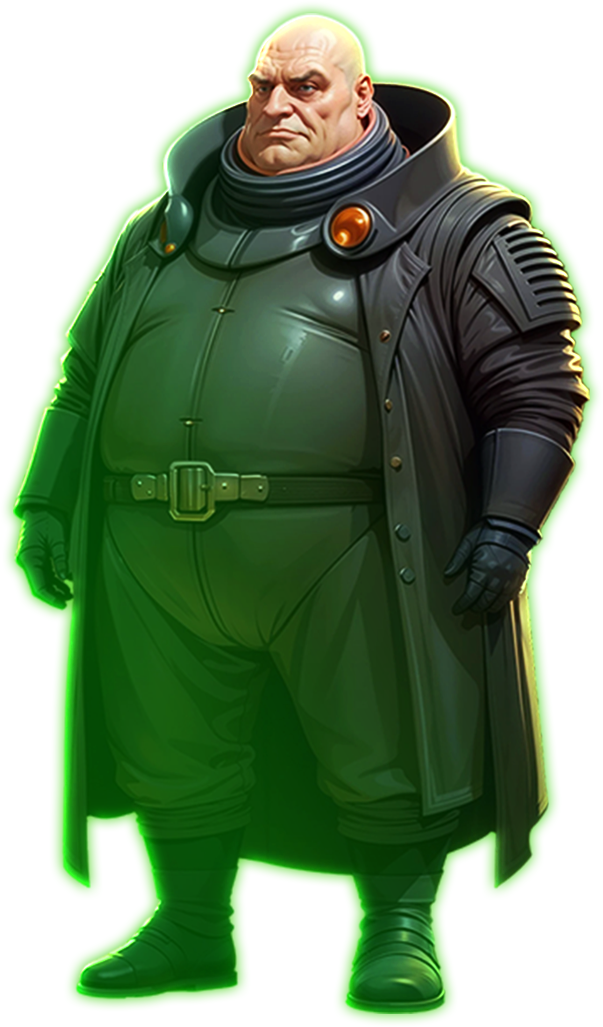
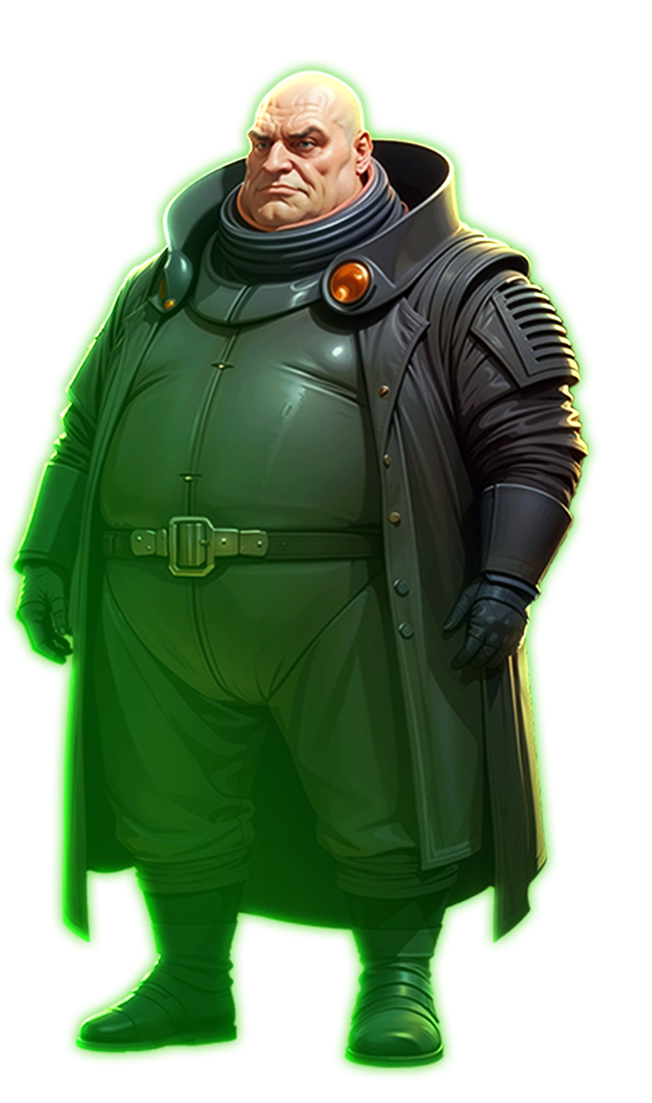
updated image sizes

diff --git a/src/App.jsx b/src/App.jsx
@@ -9,17 +9,24 @@ import chani from "./assets/img/chani.png";
 import baron from "./assets/img/baron.png";
 
 const images = [
-  { src: paul, alt: "Character Paul", className: "character-slider--image" },
-  { src: chani, alt: "Spaceship", className: "character-slider--image" },
-  { src: baron, alt: "Logo Character", className: "character-slider--image" },
+  { src: paul, alt: "Character Paul", className: "character-slider-image" },
+  { src: chani, alt: "Character Chani", className: "character-slider-image" },
+  { src: baron, alt: "Character Baron", className: "character-slider-image" },
 ];
 
 export default function App() {
   const [currentCharacter, setCurrentCharacter] = useState(0);
 
   useEffect(() => {
-    const interval = setInterval(() => {
-      setCurrentCharacter((prevIndex) => (prevIndex + 1) % images.length);
+    const interval = setInterval(function () {
+      setCurrentCharacter(function (prevIndex) {
+        const nextIndex = prevIndex + 1;
+        if (nextIndex === images.length) {
+          return 0;
+        } else {
+          return nextIndex;
+        }
+      });
     }, 3000);
 
     return () => clearInterval(interval);
@@ -31,21 +38,16 @@ export default function App() {
     <div id="app" className="app-wrapper">
       <div className="sand-texture"></div>
       <div className="header">
-        <div className="header--content">
+        <div className="header-content">
+          <h1 className="header-heading heading">SPIN FOR SPICE & <br></br>RULE THE DESERT!</h1>
           <div className="header-spaceship">
-            <img
-              src={spaceship}
-              alt="Spice Riches Spaceship"
-              className="header-spaceship-img"
-            />
+            <img src={spaceship} alt="Spice Riches Spaceship" className="header-spaceship-img" />
           </div>
-          <h1 className="header--heading heading">SPIN FOR SPICE</h1>
-          <h1 className="header--heading heading">RULE THE DESERT</h1>
         </div>
       </div>
       <div className="character-slider">
         <div className="character-slider-content">
-          <div className="character-slider--item">
+          <div className="character-slider-item">
             <img
               src={currentImage.src}
               alt={currentImage.alt}
@@ -56,10 +58,10 @@ export default function App() {
       </div>
       <div className="footer">
         <div className="footer-content">
-          <div className="footer--logo">
-            <img src={logo} alt="Spice Riches Logo" className="footer--logo-image" />
+          <div className="footer-logo">
+            <img src={logo} alt="Spice Riches Logo" className="footer-logo-image" />
           </div>
-          <h1 className="footer--heading heading">
+          <h1 className="footer-heading heading">
             COMING SOON
             <span>
               {" "}
@@ -68,7 +70,7 @@ export default function App() {
               <span className="footer-countdown">25</span>
             </span>
           </h1>
-          <p className="footer--body-text body-text">
+          <p className="footer-body-text body-text">
             Lorem ipsum dolor sit amet, consectetur adipiscing elit, sed do
             eiusmod tempor incididunt ut labore et dolore magna aliqua. Quis
             ipsum suspendisse ultrices gravida. Risus commodo viverra maecenas

diff --git a/src/styles/layout/_header.scss b/src/styles/layout/_header.scss
@@ -1,35 +1,33 @@
 @use "../base/colors" as colors;
 
 .header {
-  //   position: relative;
   width: 100%;
-  height: 100%;
+  // height: 70vh;
 }
 
-.header--content {
+.header-content {
   display: flex;
   flex-direction: column;
-  align-items: center;
+  align-items: left;
   justify-content: center;
-  position: relative;
-  height: 100%;
-  width: 60%;
+  // height: 100%;
 }
 
-.header--heading {
+.header-heading {
+  position: relative;
   color: colors.$sky-yellow;
-  font-size: 5rem;
+  font-size: 12rem;
   -webkit-text-stroke-width: 3px;
   -webkit-text-stroke-color: colors.$primary-black;
   transform: rotate(-10deg);
+  z-index: 10;
 }
 
 .header-spaceship {
   position: absolute;
   top: 35%;
-  left: 50%;
-  transform: translate(-50%, -50%);
-  z-index: 20;
+  right: 50%;
+  z-index: 15;
 }
 
 .header-spaceship-img {

diff --git a/src/styles/base/_fonts.scss b/src/styles/base/_fonts.scss
@@ -23,3 +23,16 @@ Weight Variations: 300, 400, 500, 600, 700
 
 @import url('https://fonts.googleapis.com/css2?family=Quicksand:wght@300..700&display=swap');
 $font-quicksand: 'Quicksand', sans-serif;
+
+/*
+
+Font Family: Abolition
+Designed by: The Abolitionist Project
+URL: https://fonts.adobe.com/fonts/abolition
+
+Weight Variations: 400, 500, 600, 700
+
+*/
+
+@import url("https://use.typekit.net/kcr2ach.css");
+$font-abolition: 'abolition', sans-serif;

diff --git a/src/styles/layout/_footer.scss b/src/styles/layout/_footer.scss
@@ -24,22 +24,22 @@
   z-index: 20;
 }
 
-.footer--heading {
+.footer-heading {
   color: colors.$burnt-orange;
-  font-size: 2.6rem;
+  font-size: 4.2rem;
 }
 
-.footer--body-text {
+.footer-body-text {
   width: 75%;
 }
 
-.footer--logo {
+.footer-logo {
   position: absolute;
   top: -3.7rem;
   z-index: 100;
 }
 
-.footer--logo-image {
+.footer-logo-image {
   z-index: 100;
   height: 7rem;
   width: auto;

diff --git a/src/styles/layout/_character-slider.scss b/src/styles/layout/_character-slider.scss
@@ -13,7 +13,7 @@
   width: 100%;
 }
 
-.character-slider--item {
+.character-slider-item {
   position: absolute;
   top: 5%;
   right: -30%;
@@ -21,7 +21,7 @@
   height: 95%;
 }
 
-.character-slider--image {
+.character-slider-image {
   height: 1600px;
   width: auto;
   transition: transform 0.3s ease-in-out;

diff --git a/src/styles/base/_global.scss b/src/styles/base/_global.scss
@@ -6,7 +6,7 @@ body {
 }
 
 .heading {
-  font-family: fonts.$font-audiowide, Arial, Helvetica, sans-serif;
+  font-family: fonts.$font-abolition, Arial, Helvetica, sans-serif;
   color: colors.$primary-black;
 }
 
